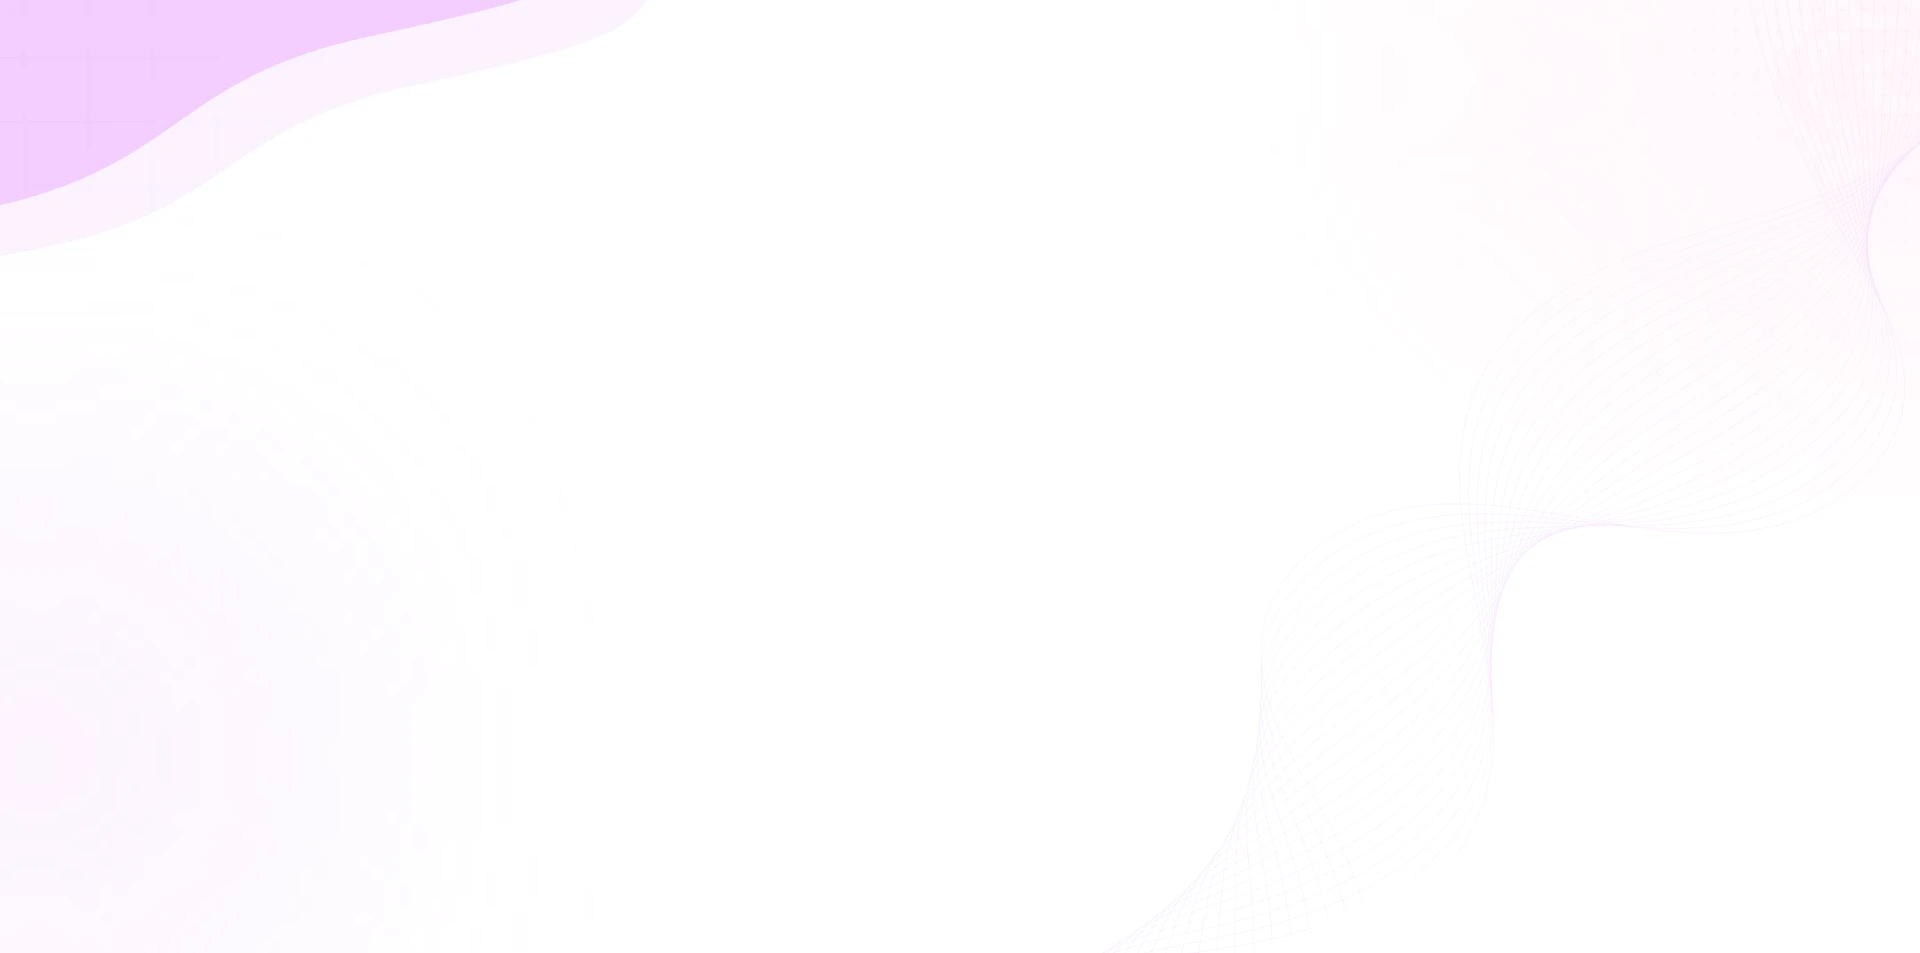
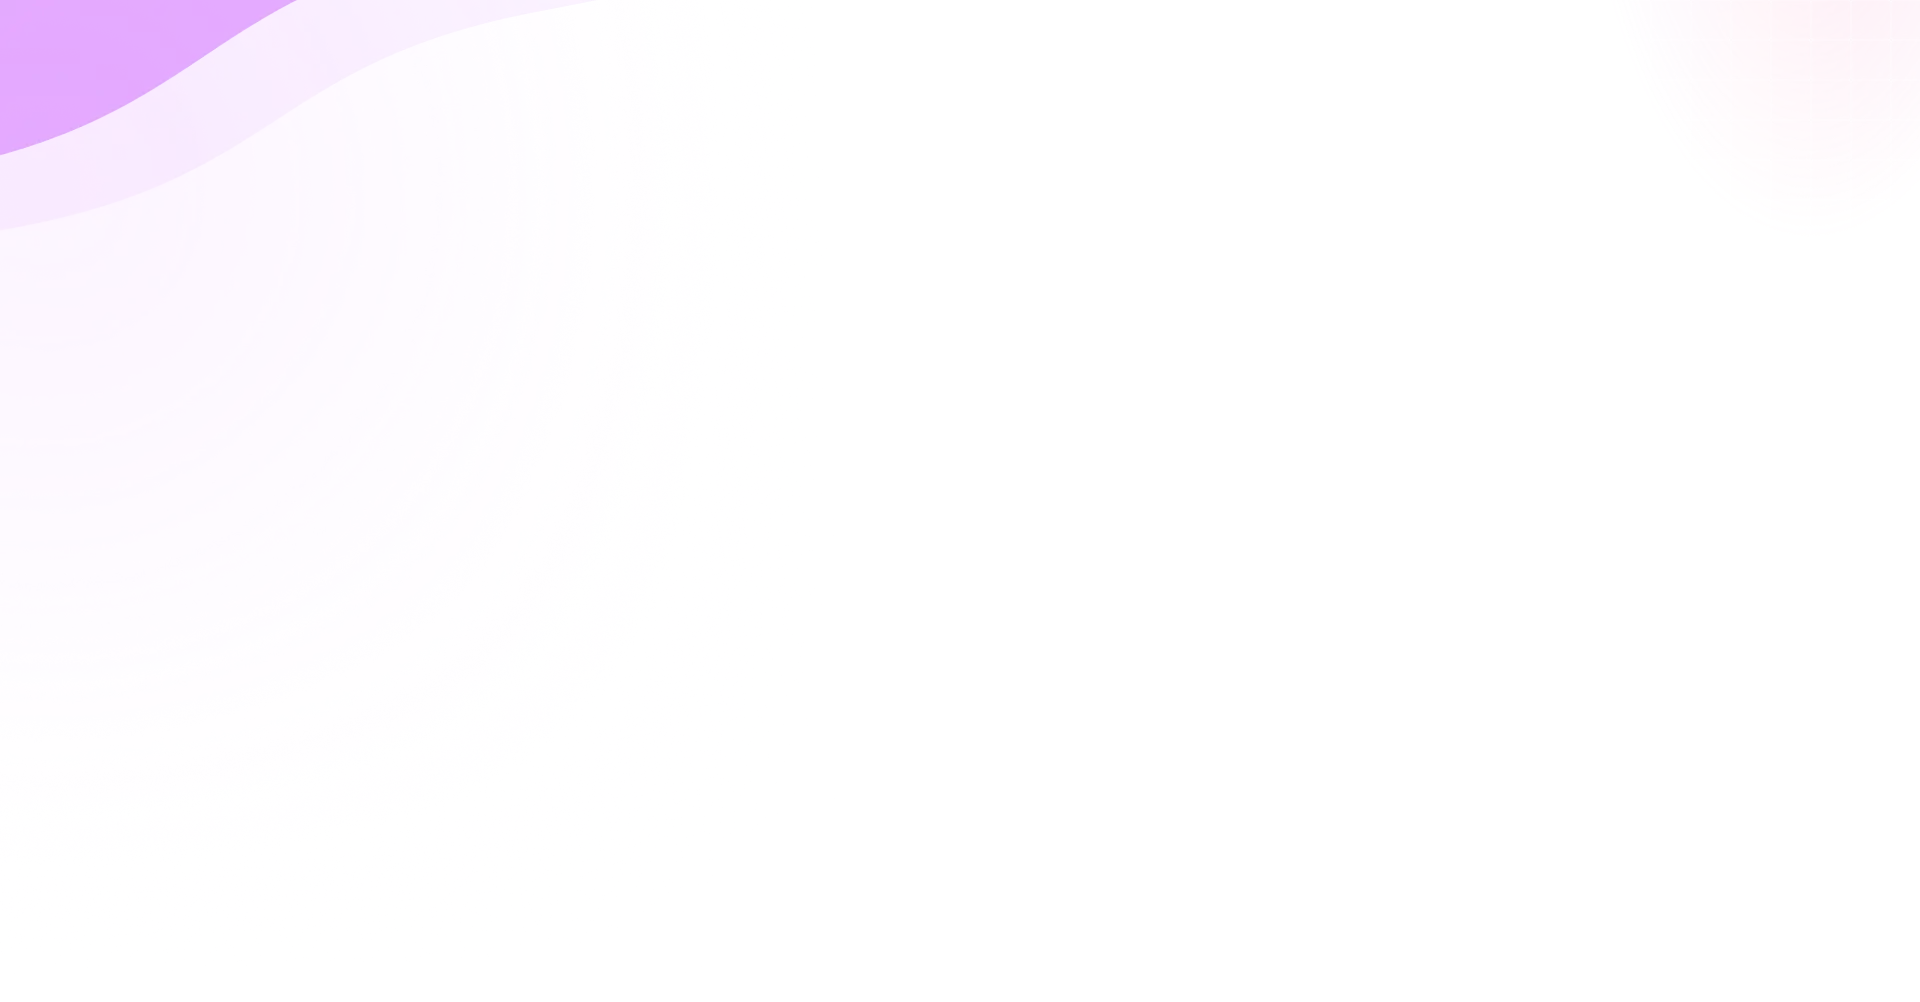
Refactor footer section layout and update background image formats
Modified the FooterSection component to enhance the layout of the "Our Services" section, transitioning from a list to a grid format for improved responsiveness. Updated the background image format for section-9 from SVG to WebP for better performance. Additionally, replaced the section-15 background image with a new WebP asset to refresh visuals.

Changed region(s): [[0.0, 0.0, 0.2812, 0.213]]

diff --git a/app/(home)/_components/footer-section.tsx b/app/(home)/_components/footer-section.tsx
@@ -231,8 +231,8 @@ export default function FooterSection() {
       className="mx-3 my-5 overflow-hidden rounded-2xl px-3 py-8 sm:mx-6 sm:my-8 sm:rounded-3xl sm:px-4 sm:py-12 lg:mx-12 lg:my-10 lg:py-[60px]"
     >
       <footer className="mx-auto flex max-w-[1440px] flex-col gap-6 px-0 sm:gap-10">
-        <div className="grid min-w-0 grid-cols-1 gap-6 sm:grid-cols-2 sm:gap-x-6 sm:gap-y-8 lg:grid-cols-3 lg:gap-x-8 lg:gap-y-10 2xl:grid-cols-6 2xl:gap-x-6">
-          <div className="flex w-full flex-col gap-4 border-b border-[#d99aff]/25 pb-6 sm:gap-6 sm:border-0 sm:pb-0 2xl:max-w-[339px] dark:border-white/20">
+        <div className="grid min-w-0 grid-cols-1 gap-6 sm:grid-cols-2 sm:gap-x-6 sm:gap-y-8 lg:grid-cols-3 lg:gap-x-8 lg:gap-y-10 xl:grid-cols-5">
+          <div className="flex w-full flex-col gap-4 border-b border-[#d99aff]/25 pb-6 sm:gap-6 sm:border-0 sm:pb-0 xl:max-w-none 2xl:max-w-[339px] dark:border-white/20">
             <div className="flex flex-col gap-3 sm:gap-[18px]">
               <Link href="/" className="relative inline-block h-10 w-[130px] sm:h-12 sm:w-[152px]">
                 <Image
@@ -281,29 +281,6 @@ export default function FooterSection() {
             <FooterLinkList links={smmPanelLinks} />
           </FooterColumn>
 
-          <FooterColumn title="Our Services">
-            <ul className="flex flex-col gap-2.5 sm:gap-4">
-              {serviceLinks.map((link) => (
-                <li key={link.label}>
-                  <Link
-                    href={link.href}
-                    className="flex items-center justify-between gap-2 text-[13px] font-medium leading-snug text-[#222e48] transition-colors hover:text-[#13203b] sm:text-sm sm:leading-normal dark:text-[#ebecef] dark:hover:text-white"
-                  >
-                    <span>{link.label}</span>
-                    <Image
-                      src="/images/icons/footer-service-chevron-icon.svg"
-                      alt=""
-                      width={22}
-                      height={22}
-                      className="size-[18px] shrink-0 rotate-180 sm:size-[22px] dark:invert"
-                      aria-hidden
-                    />
-                  </Link>
-                </li>
-              ))}
-            </ul>
-          </FooterColumn>
-
           <FooterColumn
             title="Contact Information"
             className="border-t border-[#d99aff]/25 pt-6 sm:col-span-2 sm:border-0 sm:pt-0 lg:col-span-1 dark:border-white/20"
@@ -344,6 +321,32 @@ export default function FooterSection() {
             </div>
           </FooterColumn>
         </div>
+
+        <FooterColumn
+          title="Our Services"
+          className="border-t border-[#d99aff]/25 pt-6 sm:pt-8 dark:border-white/20"
+        >
+          <ul className="grid grid-cols-2 gap-x-4 gap-y-2.5 sm:grid-cols-3 sm:gap-y-3 md:grid-cols-4 lg:grid-cols-5 xl:grid-cols-6">
+            {serviceLinks.map((link) => (
+              <li key={link.label} className="min-w-0">
+                <Link
+                  href={link.href}
+                  className="flex items-center justify-between gap-2 text-[13px] font-medium leading-snug text-[#222e48] transition-colors hover:text-[#13203b] sm:text-sm sm:leading-normal dark:text-[#ebecef] dark:hover:text-white"
+                >
+                  <span className="min-w-0">{link.label}</span>
+                  <Image
+                    src="/images/icons/footer-service-chevron-icon.svg"
+                    alt=""
+                    width={22}
+                    height={22}
+                    className="size-[18px] shrink-0 rotate-180 sm:size-[22px] dark:invert"
+                    aria-hidden
+                  />
+                </Link>
+              </li>
+            ))}
+          </ul>
+        </FooterColumn>
 
         <div className="relative flex min-h-[44px] items-center justify-center overflow-hidden rounded-lg border border-[#d99aff]/50 bg-white px-2 py-2 sm:min-h-[64px] sm:rounded-xl sm:px-4 sm:py-4 md:min-h-[83px] md:rounded-[18px] md:px-6 md:py-6 dark:border-white/20 dark:bg-[rgba(255,255,255,0.06)]">
           <div

diff --git a/components/sections/primary-section.tsx b/components/sections/primary-section.tsx
@@ -10,7 +10,7 @@ const sectionBackgroundClasses = {
   'section-6': "bg-[url('/images/backgrounds/section-bg-6.svg')]",
   'section-7': "bg-[url('/images/backgrounds/section-bg-7.svg')]",
   'section-8': "bg-[url('/images/backgrounds/section-bg-8.svg')]",
-  'section-9': "bg-[url('/images/backgrounds/section-bg-9.svg')]",
+  'section-9': "bg-[url('/images/backgrounds/section-bg-9.webp')]",
   'section-10': "bg-[url('/images/backgrounds/section-bg-10.webp')]",
   'section-15': "bg-[url('/images/backgrounds/section-bg-15.webp')]",
   'section-11': "bg-[url('/images/backgrounds/section-bg-11.webp')]",
